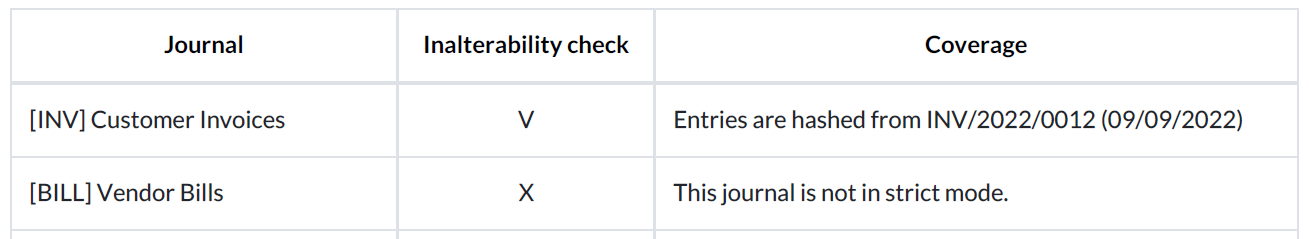
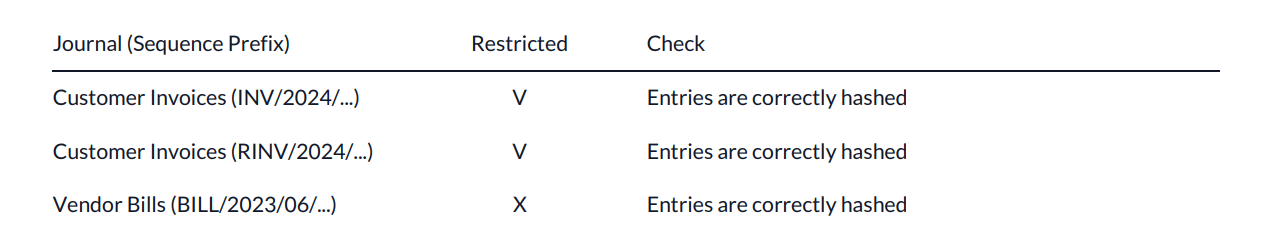
[IMP] accounting: inalterability update
To avoid confusion between lock dates and "locking" with hash
we now speak of "securing" (with hash) instead.

In the related community PR we introduce new inalterability features.
  * On account move form view:
    * An indicator next to the 'posted' state whether a move is hashed or not.
    * A checkbox "Secured" in the "Other Info" tab for the same reason.
  * A "Not Secured" filter for account move list views to find moves that are posted but not hashed.
  * A new wizard to hash all journals (independent of journal settings).

They are invisible by default; the wizard is visible in debug mode.

They can be made visible for a user by activating a special user group
(similar to multi-currency).
This happens automatically for all users in case the "Hash on Post"
option is activated on any journal or the new wizard is used to secure moves.

The inalterability report pictures and description are updated.
I.e. it now checks all journals independent of whether they are restricted ("Hash on Post") or not.
This is since the wizard can be used to hash any journal.

This commit updates the documentation accordingly.

task-4095970

diff --git a/content/applications/finance/accounting/reporting/data_inalterability.rst b/content/applications/finance/accounting/reporting/data_inalterability.rst
@@ -24,14 +24,15 @@ would break the hash chain.
    bigger than the number of atoms in the known universe. This is why hashes are considered unique
    in practice.
 
-.. _data-inalterability/lock:
+.. _data-inalterability/restricted:
 
-Lock posted entries with hash
-=============================
+Secure posted entries with hash
+===============================
 
 To start using the hashing function, go to :menuselection:`Accounting --> Configuration > Journals`.
 Open the journal for which you want to activate the feature, go to the :guilabel:`Advanced Settings`
-tab, and enable :guilabel:`Lock Posted Invoices with Hash`.
+tab, and enable :guilabel:`Secure Posted Invoices with Hash`. We call journals for which the
+feature is activated "restricted".
 This feature is available for sale, purchase, and general journals.
 
 To compute the hash of an entry, Odoo retrieves the predecessor entries of the chain (i.e., the
@@ -39,8 +40,61 @@ entries with the same sequence prefix) and hashes them in a continuous way from 
 entry to the new entry to hash.
 
 .. warning::
-   Once you post an entry in a locked journal, you cannot disable the feature anymore, nor edit any
-   locked entry.
+   Once you post an entry in a restricted journal, you cannot disable the feature anymore, nor edit any
+   secured entry.
+
+.. _data-inalterability/inalterability_features:
+
+Inalterability Features
+=======================
+
+Some Inalterability Features are hidden by default.
+They can be shown by activating the :guilabel:`Secure Posted Invoices with Hash` option on
+any journal or using the :ref:`Secure Entries Wizard <data-inalterability/wizard>`.
+
+- Two indicators are added to the journal entry form view.
+  They show whether the entry is secured or not.
+
+  - A lock next to the "Posted" state.
+  - A "Secured" checkbox in the "Other info"
+
+- On journal entry list views a "Not Secured" filter is shown.
+  It can be used to find journal entries that are posted but not secured yet.
+- The menu to open the :ref:`Secure Entries Wizard <data-inalterability/wizard>` is visible.
+
+.. _data-inalterability/wizard:
+
+Secure Entries Wizard
+=====================
+
+To secure journal entries in all journals up to a selected date the :guilabel:`Secure Entries` Wizard
+can be used.
+
+.. note::
+   The wizard operates independently of the journal settings and journal types.
+   It secures all entries in all journals.
+
+To open it, activate the :ref:`developer mode <developer-mode>`,
+go to :menuselection:`Accounting --> Accounting` and click on :guilabel:`Secure Entries`.
+In case the :ref:`Inalterability Features <data-inalterability/inalterability_features>` are activated
+it is also visible outside the debug mode.
+
+To secure entries, select a date up to which all entries should be secured and press :guilabel:`Secure Entries`.
+
+.. warning::
+   After securing the entries you will not be able to edit them any more.
+
+.. note::
+   It can happen that entries are secured that are past the selected date.
+   This is possible since the hash chain corresponds to the sequence prefix, ordered by sequence number.
+   Thus it can be necessary to hash an entry with a lower sequence number (but later accounting date).
+
+.. note::
+   It can happen that some entries can not be secured with a hash.
+   This is possible since the hash chain corresponds to the sequence prefix, ordered by sequence number.
+   Thus we can only extend the hash chain with entries that have a higher sequence number than the current chain.
+   In previous versions it was for example possible to have unhashed entries at the start of a sequence prefix.
+   Such entries can be protected from modification by setting the Hard Lock Date.
 
 .. _data-inalterability/report:
 
@@ -50,15 +104,16 @@ Report download
 To download the data inalterability check report, go to :menuselection:`Accounting --> Configuration
 --> Settings --> Reporting` and click on :guilabel:`Download the Data Inalterability Check Report`.
 
-The report's first section is an overview of all your journals and their configuration. Under the
-inalterability check column, you can see whether or not a journal's entries are locked with a hash
-(V) or not (X). The coverage column tells you when a journal's entries started being locked.
+The report's first section is an overview of all journal sequence prefixes containing hashed entries.
+In the "Restricted" column, you can see whether or not a journal
+has the :guilabel:`Secure Posted Invoices with Hash` option (V) activated or not (X).
+The "Check" column tells you whether all entries are correctly hashed or not.
 
 .. image:: data_inalterability/journal-overview.png
    :align: center
    :alt: Configuration report for two journals
 
-The second section gives you the result of the data consistency check for each hashed journal. You
+The second section gives you a more detailed result of the data consistency check for each hashed journal sequence prefix. You
 can view the first hashed entry and its corresponding hash and the last hashed entry and its
 corresponding hash.
 
